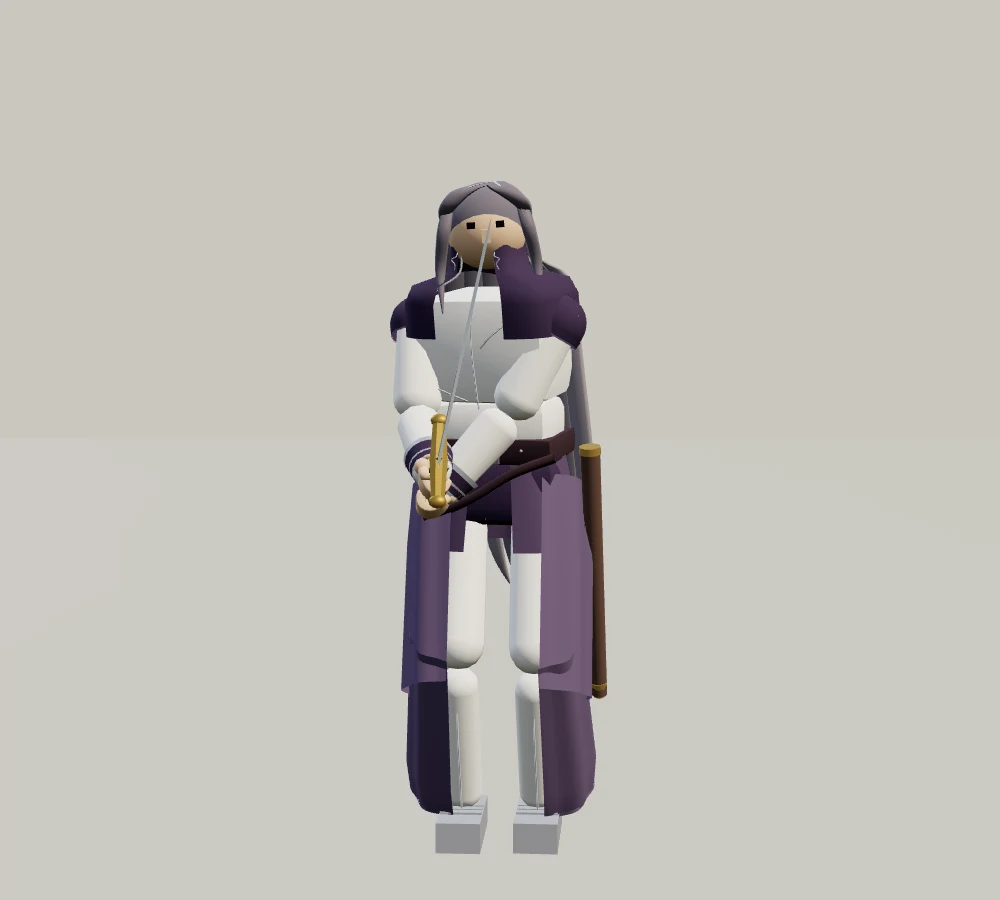
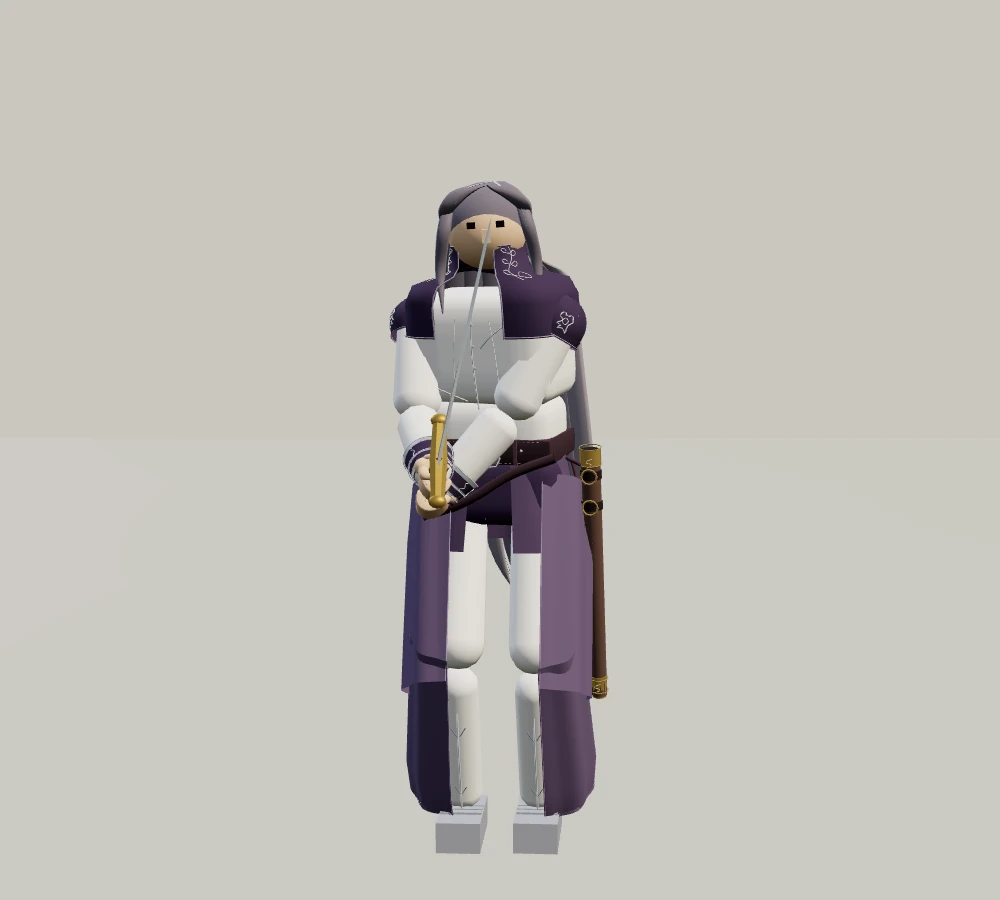
Refine silver swordsman embroidery and fittings with comparison views

diff --git a/src/outfit_silver_wanderer_detail.js b/src/outfit_silver_wanderer_detail.js
@@ -1,0 +1,166 @@
+// v2 keeps v1 selectable. Surface-following embroidery and fittings only.
+import { createSilverWandererOutfit } from './outfit_silver_wanderer.js';
+
+export function createSilverWandererDetail(h) {
+  const { THREE, bake, box, cyl, ball, addMerged, CLOTH, artoriaCloth } = h;
+  const base = createSilverWandererOutfit(h), SILVER = 0xc5c5cc, GOLD = 0xad914e;
+  const thread = { ...CLOTH, metalness: .12, roughness: .73 };
+  const metal = { ...CLOTH, metalness: .6, roughness: .36, steel: .7 };
+  const leather = { ...CLOTH, metalness: 0, roughness: .83 };
+  const layer = g => artoriaCloth(g, 'silver-wanderer-filigree');
+  const rows = [[.254, .072, .082], [.19, .079, .092], [.16, .127, .188],
+    [.119, .14, .208], [.037, .14, .211]];
+  function line(points, radius = .0016, sides = 4) {
+    return new THREE.TubeGeometry(new THREE.CatmullRomCurve3(points.map(p => new THREE.Vector3(...p))),
+      Math.max(6, Math.min(40, points.length * 2)), radius, sides, false);
+  }
+  function collar(y, a, offset = .002) {
+    let j = 0;
+    while (j < rows.length - 2 && y < rows[j + 1][0]) j++;
+    const u = THREE.MathUtils.clamp((rows[j][0] - y) / (rows[j][0] - rows[j + 1][0]), 0, 1);
+    const rx = THREE.MathUtils.lerp(rows[j][1], rows[j + 1][1], u);
+    const rz = THREE.MathUtils.lerp(rows[j][2], rows[j + 1][2], u);
+    const c = Math.cos(a), s = Math.sin(a);
+    const r = (Math.abs(c / rx) ** 4 + Math.abs(s / rz) ** 4) ** -.25;
+    const f = 1 + .008 * Math.cos(a * 8 + (j + u) * .25);
+    return [(r * f + offset) * c, y, (r * f + offset) * s];
+  }
+  function ring(y, radius, count = 28) {
+    return line(Array.from({ length: count + 1 }, (_, i) => {
+      const a = i / count * Math.PI * 2; return [radius * Math.cos(a), y, radius * Math.sin(a)];
+    }), .0013);
+  }
+  // More bevel samples and seam-averaged normals, local to this outfit.
+  // Retain the native representative geometry object/parameters for wounds.
+  function soften(g) {
+    const mesh = g.children[0], { width:w, height:h, depth:d } = mesh.geometry.parameters;
+    const geo = new THREE.BoxGeometry(w, h, d, 8, 8, 8), p = geo.attributes.position;
+    const r = Math.min(.055, h / 3), core = new THREE.Vector3(w/2-r, h/2-r, d/2-r);
+    const v = new THREE.Vector3(), n = new THREE.Vector3();
+    for (let i = 0; i < p.count; i++) {
+      v.fromBufferAttribute(p, i); n.set(THREE.MathUtils.clamp(v.x,-core.x,core.x),
+        THREE.MathUtils.clamp(v.y,-core.y,core.y),THREE.MathUtils.clamp(v.z,-core.z,core.z));
+      v.sub(n).normalize().multiplyScalar(r).add(n);
+      p.setXYZ(i, v.x * THREE.MathUtils.lerp(.96,1,(v.y+h/2)/h),v.y,v.z);
+    }
+    geo.computeVertexNormals(); const normals = geo.attributes.normal, sums = new Map(), keys = [];
+    for (let i = 0; i < p.count; i++) {
+      const key = [p.getX(i),p.getY(i),p.getZ(i)].map(x=>Math.round(x*1e6)).join(','); keys.push(key);
+      if (!sums.has(key)) sums.set(key,new THREE.Vector3());
+      sums.get(key).add(v.fromBufferAttribute(normals,i));
+    }
+    for (let i = 0; i < p.count; i++) { v.copy(sums.get(keys[i])).normalize(); normals.setXYZ(i,v.x,v.y,v.z); }
+    mesh.geometry.copy(geo); geo.dispose();
+  }
+  function chest(g) {
+    soften(g); const l = layer(g), silver = [], edging = [];
+    // Hide v1's buried trim only. Keep the mantle itself and the white shirt.
+    const old = g.children[0].children.find(n => n.name === 'silver-wanderer-cloth');
+    for (const mesh of old?.children || []) if (mesh.material?.color.getHex() === 0xb6bbc3) mesh.visible = false;
+    for (const s of [-1,1]) {
+      edging.push(line(rows.map(([y])=>collar(y,s*.58)),.0023));
+      // One curling stem with alternating leaves, rather than parallel loops.
+      silver.push(line(Array.from({length:17},(_,i)=> {
+        const t=i/16; return collar(.249-t*.077,s*(.97+.075*Math.sin(t*Math.PI*2)));
+      }),.0015));
+      for (const y of [.237,.211,.185]) {
+        silver.push(line([[y-.004,.96],[y+.001,.80],[y+.008,.77],[y+.009,.85],[y+.003,.89]]
+          .map(([yy,a])=>collar(yy,s*a)),.0015));
+        silver.push(line([[y-.005,.98],[y-.011,1.13],[y-.007,1.22],[y+.002,1.16],[y-.005,.98]]
+          .map(([yy,a])=>collar(yy,s*a)),.0014));
+      }
+      // Woven hem continues around the short mantle, away from arm joints.
+      edging.push(line(Array.from({length:22},(_,i)=>collar(.04,s*(.58+i/21*(Math.PI-.58)))),.0018));
+    }
+    edging.push(line(Array.from({length:37},(_,i)=>collar(.253,.58+i/36*(Math.PI*2-1.16))),.0018));
+    addMerged(l,edging,0x8d879d,thread); addMerged(l,silver,SILVER,thread);
+    // A modest three-button placket and soft white seam folds on the shirt.
+    const shirtX = y => .12 * (.96 + .04 * (y + .14) / .28) + .0015;
+    addMerged(l,[.069,.016,-.037].map(y=>bake(ball(.0038,8,6),[shirtX(y),y,.002],null,[.5,1,1])),SILVER,metal);
+    addMerged(l,[-1,1].map(s=>line([[shirtX(.083),.083,s*.045],[shirtX(.014),.014,s*.054],[shirtX(-.091),-.091,s*.061]],.001)),0xd8d8d7,leather);
+    const strands=[];
+    for(let i=-3;i<=3;i++) for(const dz of [-.013,.012]) {
+      const z=i*.04;
+      strands.push(line([[-.174,.139,z+dz],[-.182,-.07,z*1.14+dz],[-.201,-.33,z*1.21+dz],
+        [-.241,-.60,z*1.17+dz*.8],[-.273,-.79+Math.abs(i)*.035,z*1.04+dz*.12]],.0008,3));
+    }
+    addMerged(l,strands,0xa39caa,{...thread,metalness:0,roughness:.65});
+  }
+  function abdomen(g) {
+    soften(g); const l=layer(g), stitches=[];
+    for (const y of [-.026,-.079]) for(let z=-.14;z<.15;z+=.012)
+      stitches.push(line([[.12,y,z],[.12,y,z+.006]],.0008,3));
+    addMerged(l,stitches,0x968076,leather);
+    // Engraved frame and tongue around the existing buckle, no belt resizing.
+    addMerged(l,[line([[.134,-.022,-.039],[.134,-.022,.009],[.134,-.081,.009],
+      [.134,-.081,-.039],[.134,-.022,-.039]],.002),
+      line([[.14,-.05,-.03],[.14,-.043,-.012],[.14,-.055,-.003]],.0014)],SILVER,metal);
+    addMerged(l,[.06,.093,.126].map(z=>bake(ball(.0025,6,4),[.12,-.05,z],null,[.5,1,1])),0x211a24,leather);
+    addMerged(l,[box(.006,.063,.009,[.123,-.052,.047]),box(.006,.063,.009,[.12,-.052,-.079])],0x604957,leather);
+  }
+  function pelvis(g) {
+    soften(g); const l=layer(g), trim=[], fasteners=[];
+    const old = g.children[0].children.find(n=>n.name==='silver-wanderer-cloth');
+    for(const mesh of old?.children||[]) if(mesh.material?.color.getHex()===0xa88b45) mesh.visible=false;
+    // Work in scabbard coordinates and transform the whole fitting together.
+    const place=geo=>bake(geo,[-.018,-.22,-.24],[0,0,-.23]);
+    trim.push(place(cyl(.027,.027,.043,16,true,[0,.315,0])));
+    addMerged(l,[place(bake(new THREE.CircleGeometry(.024,16),[0,.331,0],[-Math.PI/2,0,0]))],0x221a21,leather);
+    trim.push(place(cyl(.022,.018,.059,16,false,[0,-.305,0])));
+    for(const y of [.337,.294,-.283,-.317]) trim.push(place(ring(y,y>0?.027:.023)));
+    for(const y of [.27,.19]) {
+      fasteners.push(place(cyl(.027,.027,.023,16,true,[0,y,0])));
+      trim.push(place(bake(new THREE.TorusGeometry(.019,.0024,4,12),[.031,y,0],[0,Math.PI/2,0])));
+    }
+    const scroll=[];
+    for(const y of [.303,-.301]) scroll.push(place(line([[.027,y+.012,-.009],[.029,y+.004,.009],
+      [.029,y-.003,-.009],[.027,y-.012,.007]],.0012)));
+    addMerged(l,fasteners,0x30242d,leather); addMerged(l,trim,GOLD,metal);
+    addMerged(l,scroll,0xe2c77f,metal);
+    // Short attached suspension straps; never a solid band crossing both legs.
+    addMerged(l,[line([[.028,.079,-.177],[.063,.068,-.213],[.049,.054,-.24]],.005),
+      line([[-.033,.067,-.179],[.018,-.022,-.218],[.029,-.03,-.24]],.005)],0x4e3541,leather);
+  }
+  function upperArm(g,look,d) {
+    const l=layer(g), side=Math.sign(d.pos[2])||1;
+    const surface=(x,y)=>[x,y,side*(.07488*Math.sqrt(Math.max(.02,1-(x/.072)**2-((y-.098)/.07344)**2))+.0018)];
+    const glyph=[[-.019,.111],[-.012,.126],[.001,.119],[.009,.127],[.017,.113],
+      [.006,.107],[.017,.093],[.005,.094],[.012,.083],[-.003,.088],[-.012,.079],[-.011,.099],[-.019,.111]];
+    addMerged(l,[line(glyph.map(([x,y])=>surface(x,y)),.0019),
+      line([[-.008,.109],[.002,.114],[.007,.103],[-.003,.098],[-.008,.109]].map(([x,y])=>surface(x,y)),.0014)],SILVER,thread);
+    // Fine rolled cuff edge beneath the mantle, with small seam stitches.
+    addMerged(l,[ring(.065,.0715)],0xa298b0,thread);
+  }
+  function forearm(g) {
+    const l=layer(g), work=[];
+    const surface=(y,a)=> {const r=.059-(.059-.049)*THREE.MathUtils.clamp((-.039-y)/.058,0,1)+.002;
+      return [r*Math.cos(a),y,r*Math.sin(a)];};
+    for(let k=0;k<6;k++) {
+      const a=k*Math.PI/3;
+      work.push(line([[.018,-.052],[.095,-.057],[-.05,-.067],[.09,-.076],[.025,-.082]]
+        .map(([da,y])=>surface(y,a+da)),.0013));
+    }
+    addMerged(l,work,SILVER,thread);
+    addMerged(l,[ring(-.041,.061),ring(-.081,.055),ring(-.103,.049)],0xd6d4dc,metal);
+    addMerged(l,[cyl(.047,.046,.007,20,true,[0,-.116,0])],0x55435f,leather);
+  }
+  function skirt(g,side,lower) {
+    const l=layer(g), a=side===1?.14:Math.PI*2-.14;
+    const rows=lower?[[.282,.118,.115,-.034],[.14,.127,.125,-.038],[-.09,.145,.142,-.04],[-.175,.13,.136,-.037]]
+      :[[.25,.135,.13,-.019],[.11,.142,.137,-.022],[-.12,.137,.137,-.03],[-.265,.134,.136,-.033]];
+    const seam=rows.map(([y,rx,rz,x],j)=>[x+rx*Math.cos(a)*(1+.034*Math.cos(a*8+j*.25))+.002,
+      y,rz*Math.sin(a)*(1+.034*Math.cos(a*8+j*.25))+side*.001]);
+    addMerged(l,[line(seam,.0015)],0x94839f,thread);
+    if(lower) {
+      // Narrow engraved ridge on the visible silver greave.
+      addMerged(l,[line([[.059,.076,-.018],[.065,.052,0],[.059,.076,.018]],.0014),
+        line([[.054,-.11,-.014],[.055,-.132,0],[.054,-.11,.014]],.0012)],0x858994,metal);
+    }
+  }
+  const details={chest,abdomen,pelvis,uarmS:upperArm,uarmO:upperArm,farmS:forearm,farmO:forearm,
+    thighF:(g)=>skirt(g,1,false),thighB:(g)=>skirt(g,-1,false),
+    shinF:(g)=>skirt(g,1,true),shinB:(g)=>skirt(g,-1,true)};
+  return Object.fromEntries(Object.entries(base).map(([part,decorate])=>[part,(g,look,d)=>{
+    decorate(g,look,d);details[part]?.(g,look,d);
+  }]));
+}

diff --git a/public/silver-wanderer.html b/public/silver-wanderer.html
@@ -10,7 +10,15 @@
 <p>긴 은회색 머리와 높은 깃, 보랏빛 어깨 망토. 흰 소매 아래에는 은빛 장식이 겹쳐지고, 앞이 갈라진 긴 옷자락 사이로 흰 바지가 보입니다.</p>
 <figure><a href="encounters/silver-wanderer-threeq.webp"><img src="encounters/silver-wanderer-threeq.webp" alt="은회색 긴 머리, 보라색 망토와 흰 소매를 입은 검사의 실제 게임 모델"></a><figcaption>실제 게임 모델 · 외형 관찰용 조명</figcaption></figure>
 <a class="play" href="./?cards=sain,ice&amp;foe=silver_wanderer&amp;stage=crown_sanctum">검사와 대련하기</a>
-<p class="sub">그림을 바탕으로 만든 첫 외형 시안입니다. 이름은 임시이며, 우선 기존 롱소드와 토메의 목소리를 사용합니다.</p>
+<p>깃의 은색 덩굴 문양 · 어깨 자수 · 겹친 손목 장식<br>허리띠 박음질과 은색 버클 · 검집의 금장 고리와 새김</p>
+<figure><a href="encounters/silver-wanderer-detail.webp"><img src="encounters/silver-wanderer-detail.webp" alt="깃의 은색 문양과 어깨 자수를 확대한 실제 모델"></a><figcaption>보강 후 · 깃과 어깨 확대</figcaption></figure>
+<figure><a href="encounters/silver-wanderer-fittings.webp"><img src="encounters/silver-wanderer-fittings.webp" alt="손목 문양과 허리띠, 검집의 금구 확대"></a><figcaption>손목 · 허리띠 · 검집의 세부</figcaption></figure>
+<details><summary>첫 시안과 비교하기</summary>
+<figure><img src="encounters/silver-wanderer-before-detail.webp" alt="보강 전 깃과 어깨"><figcaption>보강 전 · 같은 관찰 조명과 카메라</figcaption></figure>
+<figure><img src="encounters/silver-wanderer-before-threeq.webp" alt="보강 전 전신"><figcaption>첫 시안의 전신</figcaption></figure>
+<p><a href="./?cards=sain,ice&amp;foe=silver_wanderer&amp;stage=crown_sanctum&amp;look=silver_wanderer:v1">첫 시안으로 대련하기</a></p>
+</details>
+<p class="sub">그림을 바탕으로 장식과 옷의 세부를 보강한 시안입니다. 이름은 임시이며, 우선 기존 롱소드와 토메의 목소리를 사용합니다.</p>
 <details><summary>정면과 뒷모습 보기</summary>
 <figure><a href="encounters/silver-wanderer-front.webp"><img src="encounters/silver-wanderer-front.webp" alt="은발의 검사 정면"></a></figure>
 <figure><a href="encounters/silver-wanderer-back.webp"><img src="encounters/silver-wanderer-back.webp" alt="은발의 검사 뒷모습과 긴 머리"></a></figure>

diff --git a/src/outfits.js b/src/outfits.js
@@ -19,6 +19,7 @@ import { createRenjiOutfit } from './outfit_renji.js';
 import { createEiraOutfit } from './outfit_eira.js';
 import { createSherpaOutfit } from './outfit_sherpa.js';
 import { createSilverWandererOutfit } from './outfit_silver_wanderer.js';
+import { createSilverWandererDetail } from './outfit_silver_wanderer_detail.js';
 
 const _m4 = new THREE.Matrix4();
 const _euler = new THREE.Euler();
@@ -2497,6 +2498,7 @@ const CROWN_ROSE_UNIFORM = Object.fromEntries(Object.entries(CROWN_BLUE_UNIFORM)
 
 export const newOutfitHelpers = { THREE, bake, box, cyl, ball, cone, addMerged, CLOTH, quietFace, isoldeLock, artoriaCloth, sleeveVolume, clothNeck, artoriaRoundedBox };
 export const OUTFITS = {
+  silver_wanderer_detail: createSilverWandererDetail(newOutfitHelpers),
   silver_wanderer: createSilverWandererOutfit(newOutfitHelpers),
   sherpa_surveyor: createSherpaOutfit(newOutfitHelpers),
   renji_wanderer: createRenjiOutfit(newOutfitHelpers),

diff --git a/src/looks.js b/src/looks.js
@@ -651,6 +651,8 @@ LOOK_ARCHIVE.silver_wanderer = { v1: {
   outfit: 'silver_wanderer', armor: null, stockEyes: true,
 } };
 
+LOOK_ARCHIVE.silver_wanderer.v2 = { ...LOOK_ARCHIVE.silver_wanderer.v1, outfit: 'silver_wanderer_detail' };
+
 // 지금 게임에서 실제로 쓰는 버전 (감독/오너가 확정하면 여기만 바꾸면 됨)
 export const CHARACTER_LOOK_VERSION = {
   bran: 'v1',
@@ -666,7 +668,7 @@ export const CHARACTER_LOOK_VERSION = {
   renji: 'v2',
   eira: 'v1',
   sherpa: 'v1',
-  silver_wanderer: 'v1',
+  silver_wanderer: 'v2',
 };
 
 /** id의 특정 버전을 꺼낸다. 버전이 없으면 현재 버전 → v0 순으로 물러난다. (main.js의 ?look=, ?lookv= 미리보기용) */

diff --git a/docs/content/silver_wanderer_detail_20261011.md b/docs/content/silver_wanderer_detail_20261011.md
@@ -1,0 +1,25 @@
+# 은발의 검사 장식 보강 · v2
+
+기준 `823c81a`. 사용자 요청: “장식과 디테일을 더 정교하게 살려봐.” 첫 시안 v1은 보존하고 v2를 별도 외형으로 등록한다. 같은 [소개/대련 페이지](https://yoonjl-svg.github.io/halfsword-codex/silver-wanderer.html)에서 전후 사진과 v1 진입도 제공한다.
+
+## 변경과 판단
+
+- 높은 깃의 문양을 실제 천 곡면에 맞춘 은색 줄기·잎·말림으로 제작. 기존 손배치 선이 표면 안으로 묻히던 부분을 교정하고 망토 가장자리도 곡면에 맞췄다.
+- 어깨의 문장 자수, 보라색 손목띠의 반복 문양과 겹친 은색 테두리, 상의 단추, 허리띠 박음질·버클·구멍·고정끈을 추가했다.
+- 검집에 금색 입구/끝장식·각인·매다는 고리와 가죽 띠를 추가. 입구는 어두운 내측과 열린 금속 테두리로 구분했다. 뒤쪽 머리에 가는 결, 옷자락·각반에 얕은 장식선을 더했다.
+- 흰 몸통의 각진 명암은 이 외형에 한해 곡면 분할을 보강하고 같은 위치의 법선을 평균냈다. 공통 함수/다른 인물/얼굴/눈/신체 물리를 수정하지 않는다.
+- 확대 검토 후 이중 고리 문양을 식물형 줄기/잎으로 바꾸었다. 작은 금속선의 과도한 분할을 줄였다. 고해상도 텍스처, 천 시뮬레이션, 새 전투 성능을 추가한 작업은 아니다.
+
+## 재현과 검증
+
+기존 `tools/sim/experiments/silver_wanderer_gate.mjs`를 최종 소스에서 실행한다. 장식 유무 물리 snapshot, 공통 얼굴/눈, 480step 실제 입력과 관절, 합성 상처 후 장식 부착을 검사한다. 브라우저에서 자연 상처를 관찰하지 못한 경우 이 합성 검사와 구분한다.
+
+`CAPTURE_IDS=silver_wanderer CAPTURE_VIEWS=front,threeq,back,detail,fittings CAPTURE_BASE=http://127.0.0.1:4280 CAPTURE_OUT=/tmp/halfsword-silver-20261011/detail/portraits-delivery node tools/browser/native_character_portrait.mjs`
+
+실제 게임의 시작 자세를 같은 관찰 조명/카메라로 촬영한다. 재실행의 정착 프레임 차이는 있을 수 있다. 전후 사진은 이미지 편집으로 모양을 바꾼 것이 아니다. 별도 천 물리나 모든 자세의 관통 방지, 실물 휴대폰 성능과 사용자 미적 수락까지 검증한 것으로 확대하지 않는다.
+
+빌드는 `/tmp/halfsword-silver-20261011/detail/build`, 모바일 검사 출력은 `/tmp/halfsword-new-pair-20261010/silver-detail-local-final`과 `silver-detail-public`. 기존 전달 도구에 같은 7개 사진·전후 보기·카드 선택·터치·이동·일시정지/재개·새 라운드 재시작을 검사한다. 최종 수치·해시·공개 결과는 [영수증](silver_wanderer_detail_release.json)에 남긴다.
+
+개발 서버의 이전4281 포트가 남아 있었고 첫 모바일 검사가 동결 빌드 불일치를 차단했다. 실패 기록을 보존하고 새4290 포트에서 현재 빌드로 재실행한다. 코드의 성공으로 그 실패를 기록하지 않는다.
+
+최종 native8항목·빌드·로컬 모바일1흐름 통과, 가져온192파일 해시 일치·오류0. native 집계112메시/31,274삼각형. 장식선 분할 조정 전39,854에서8,580삼각형 감소했으며 FPS 개선 측정은 아니다.

diff --git a/docs/dev_exchange/notes/2026-10-11.md b/docs/dev_exchange/notes/2026-10-11.md
@@ -34,6 +34,8 @@
 
 [은발의 검사](../../content/silver_wanderer_20261011.md): 공통 얼굴/눈/몸 규격에 긴 머리·보라색 망토/긴 자락·흰 소매를 제작. 이름/롱소드/토메 음성은 임시. `baf1ea2` 별도 시안 공개 완료. native8항목/빌드·로컬/공개 모바일 각1흐름 통과, 공개180파일 해시 일치·오류0. 첫 렌더의 머리 단차와 어깨 겹침을 보완했다. 독립 천 물리·전 자세 관통 해소로 확대하지 않는다.
 
+[은발의 검사 v2](../../content/silver_wanderer_detail_20261011.md): 사용자 후속으로 깃의 곡면 문양·어깨 자수·손목·허리띠·검집 금구와 머리 결을 보강. 곡면 안에 묻힌 장식선을 표면에 맞췄고 몸통의 법선 이음새를 이 외형에서만 다듬었다. v1 보존·전후 사진 제공, native8항목·로컬 모바일1흐름/192파일 해시 통과. 공개 검사 대기.
+
 ## 3. 실패에서 배운 것
 
 캐릭터 추가 때 기존 voice ID 복사를 그대로 두어 모두 같은 연기가 났다. 합성용 f0 설정만 바꿔도 녹음의 캐스팅은 바뀌지 않는다. 묶음 수·서로 다른 원녹음·실제 배우 수를 구별하며 측정된 파형만으로 나이/연기 적합성을 선언하지 않는다. 실패 다운로드를 빈 배열로 영구 캐시하면 듣기 화면의 재시도가 동작하지 않아 교정했다.

diff --git a/docs/codex_team/ACTIVE_PLAN.md b/docs/codex_team/ACTIVE_PLAN.md
@@ -1,5 +1,7 @@
 # 빠른 결과물 중심 개발 계획
 
+은발의 검사 v2: [깃 문양·어깨 자수·손목/허리띠/검집 보강](../content/silver_wanderer_detail_20261011.md). v1 보존, 전후 사진과 확대 화면 준비. 기존 물리/얼굴/눈 규격 유지. native8항목·로컬 모바일1흐름/192파일 해시 통과. 공개 검사 대기.
+
 최신 요청: [은발의 검사 외형 시안](../content/silver_wanderer_20261011.md). 제공 그림의 긴 은회색 머리·보라 망토·흰 소매·긴 자락을 기존 신체/눈 규격으로 제작. 별도 입구, 롱소드/토메 목소리는 임시. `baf1ea2` 별도 시안 공개 완료. native8항목/빌드·로컬/공개 모바일 각1흐름 통과, 공개180파일 해시 일치·오류0.
 
 오마리 최신 후속: 현재 기절·출혈 각각10% 단축(파일1.570→1.413초 /1.840→1.656초). 재생속도/음높이/다른 배정 유지. `200269d` 공개 완료. 로컬/공개 각3묶음·오류0·공개16파일 해시 일치. [기록](../sound/voice_restraint_20261011.md).
